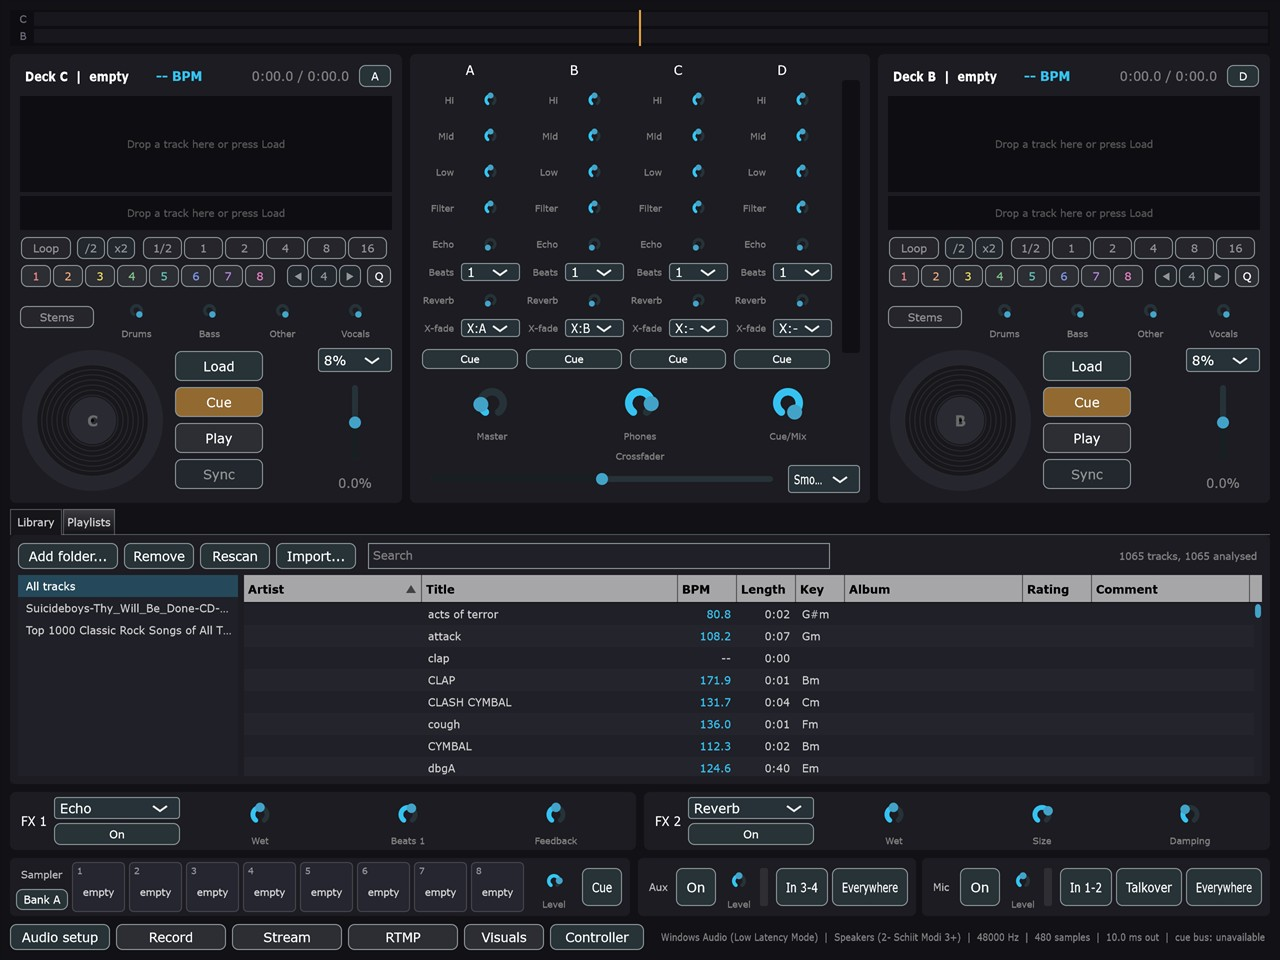
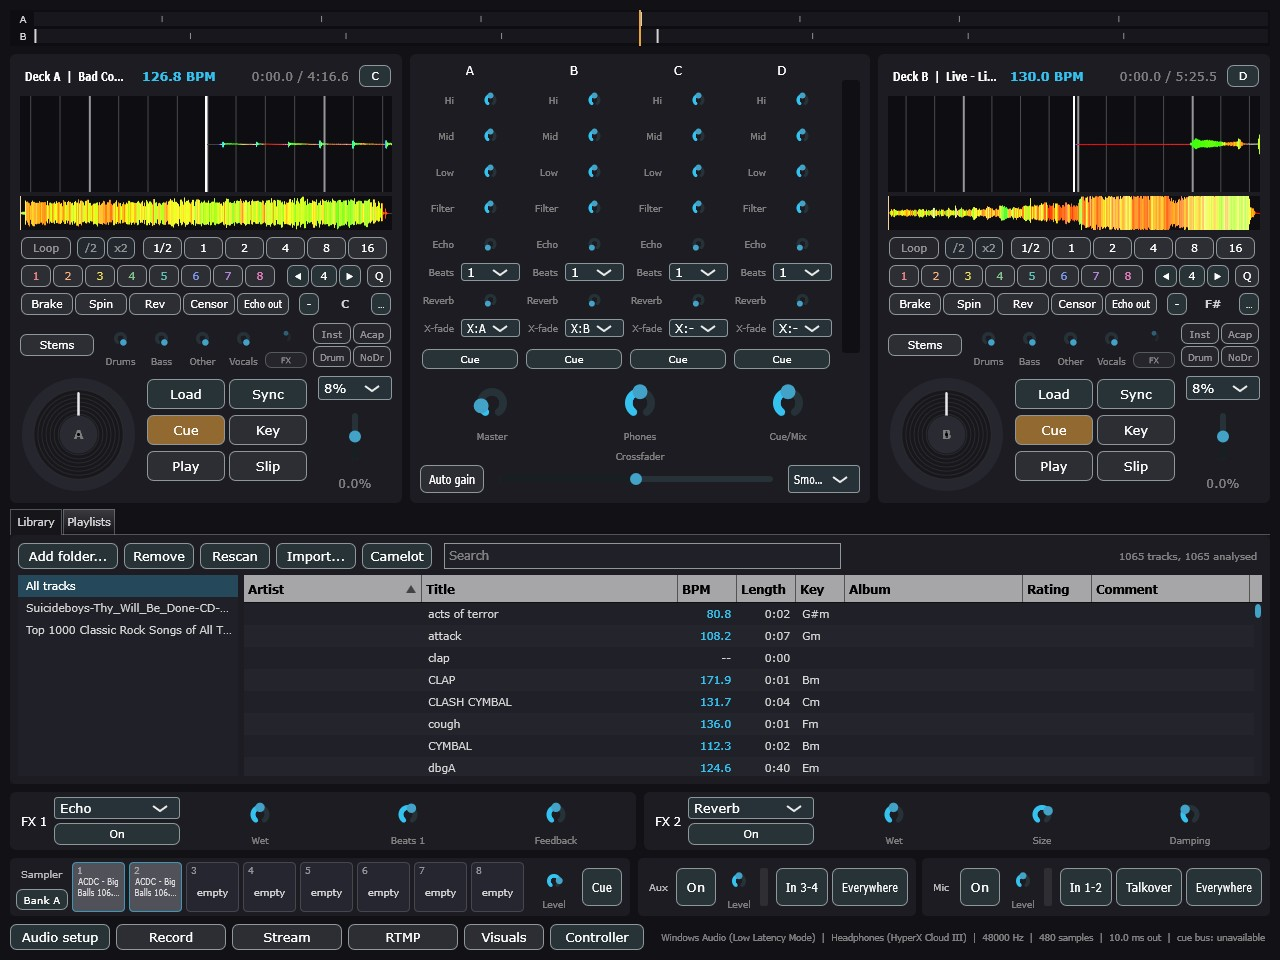
Bring the README, roadmap and screenshot up to date
A fresh screenshot with two tracks loaded, showing the stem pads, the
performance effects row, beat jump and quantize, auto gain, the master
effect units, sampler banks and the aux input. The README's status and
alt text name what has landed since, the keys table gains the sampler
pads and F11, and the DJ-202 notes no longer list key lock as unmapped.

The roadmap gains rows for beat jump, grid editing, full screen, sampler
banks, the aux input, stem pads and FX, MIDI learn and rekordbox import,
puts history and smart folders and hands-on checks of recent work at the
top of what to pick up next, and states the test count as measured on
Windows.

diff --git a/ROADMAP.md b/ROADMAP.md
@@ -1,8 +1,9 @@
 # OpenDJ roadmap
 
 Where the project is and what to pick up next. Anything ticked has tests or a verified manual
-check behind it, not just code that compiles. The suite is **651 tests** on Linux. Windows runs
-one fewer, a stderr test whose stand-in for ffmpeg is a shell script. Anything touching audio is
+check behind it, not just code that compiles. The suite is **618 test cases** in a Windows build
+(`opendj-tests --list-tests`); a few are platform specific, so the count differs a little on Linux
+and macOS. Anything touching audio is
 tested by measuring the output, not by checking that the code ran. Open work is also tracked as
 issues on [git.interdo.me](https://git.interdo.me/interdome/opendj/issues), and the numbers
 below refer to those.
@@ -39,6 +40,9 @@ that was listed after it except video.
 | --- | :---: | --- |
 | Four decks, A to D | ✅ | Four mixer strips, a crossfader assignment per channel, a swap button per side |
 | Loops and loop rolls | ✅ | `Deck::setLoopBeats` and friends |
+| Beat jump and quantize (#13) | ✅ | `Deck::beatJump`, `Deck::setQuantize`: jumps of 1 to 32 beats, cues and loops snapped to the grid |
+| Beat grid editing and tap tempo (#14) | ✅ | `src/ui/BeatGridEditor.*`, behind each deck's BPM readout. Edits are kept with the track and outrank later analysis |
+| Full screen (#41) | ✅ | F11, `MainComponent::keyPressed` |
 | Slip mode | ✅ | `Deck::setSlipEnabled`, sharing the roll's shadow playhead |
 | Key detection | ✅ | `src/analysis/KeyDetector.*`, in the browser's Key column |
 | Auto gain | ✅ | `src/analysis/Loudness.*`, `Deck::setAutoGainEnabled`. BS.1770 loudness, kept with the track |
@@ -48,12 +52,16 @@ that was listed after it except video.
 | Brake, backspin, reverse, censor | ✅ | `Deck::brake` and friends, on a row of their own under the hot cues |
 | Echo out | ✅ | `Mixer::setChannelEchoOut` |
 | VST3 effect plugins | ✅ | `src/core/PluginHost.*`: scanned in the background, loaded into a master slot with its own window and two knobs mapped to its parameters |
-| Sampler | ✅ | `src/core/Sampler.*`, eight pads |
+| Sampler | ✅ | `src/core/Sampler.*`, `src/ui/SamplerComponent.*`: four banks of eight pads, recording from a deck, and tempo sync (#21) |
 | Playlists | ✅ | `Library` playlist tables, `src/ui/PlaylistComponent.*`: built from the browser by selection or drag, reordered, renamed |
 | Automix | ✅ | `src/core/AutoMix.*`, `AutoMixMath.h`: plays a playlist on decks A and B, loading ahead, matching tempo and beat, sweeping the crossfader. Key lock goes on for a deck whose tempo it changes |
 | Smart crossfade | 🚧 | `src/core/MixPoints.*`: outro into intro, phrase on phrase, with a bass swap (#37). Checked against 20 real tracks' analyses, not yet listened to through a whole set. Vocals are kept apart where a separator is installed (#37): each track is separated while the one before plays, the mix moves to the nearest phrase, or the shorter fade, with fewest bars sung over each other, and the outgoing vocals make way for any that remain. Each phrase is read as intro, verse, chorus, breakdown or outro from its energy (and its vocals when separated). With no outro to mix from, the fade moves back rather than cut into a closing chorus. The incoming track is matched to the loudness of the outgoing one, within 6 dB |
 | Mic input | 🚧 | `src/core/MicInput.*`, `src/ui/MicComponent.*`, with talkover and a stream-only switch. Tested by measuring the output; not yet tried with a real mic |
+| Aux input (#46) | 🚧 | The same `MicInput` in stereo, on its own pair of inputs. Tested by measuring the output; not yet tried with a real source |
 | Stem separation | ✅ | `src/analysis/StemSeparator.*`, `StemDsp.*`, a knob per stem |
+| Stem pads, an effect on one stem, preparing ahead (#22) | 🚧 | `Deck::setStemFxEnabled` and friends, `src/ui/StemPrepareMenu.h`. Tested with hand-built stems and a stand-in separator; not yet run with a real separation model |
+| MIDI learn (#19) | 🚧 | `src/control/MidiLearn.*`, in the Controller panel. Tested with messages fed in where a device delivers them; not yet on a controller |
+| rekordbox import (#23) | ✅ | `src/library/RekordboxImport.*`: grids, hot cues, playlists, colours, ratings and comments |
 | Stems on the GPU (#36) | ✅ | `src/analysis/StemModel.*`: ONNX Runtime with CUDA on an NVIDIA card, OpenVINO on Intel graphics or the CPU. A five minute track takes 27 s on an RTX 4070 against 118 s on the CPU. Core ML on a Mac: a six minute track takes about 26 s on an M5 Pro, 2.5 times as fast as its CPU |
 | Record the master output | ✅ | `src/core/SetRecorder.*`: WAV, FLAC or MP3, with a tracklist |
 | Split output cue | ✅ | `src/core/OutputRouter.*`, headphones on a stereo interface |
@@ -67,6 +75,8 @@ that was listed after it except video.
 
 | Item | Notes |
 | --- | --- |
+| History and smart folders (#11) | The biggest gap left in the VirtualDJ comparison below. `tracks.last_played_at` exists but nothing writes it |
+| Hands-on checks of recent work | Stem pads and stem FX with a real separation model, MIDI learn on a real controller, the new effects and key tools heard in a set, auto gain across a real collection, the aux input with a real source. All are tested by measurement; none has been used in anger |
 | DJ-202 pad modes on the hardware, then the rest (#6) | Loop, roll and sampler modes are mapped from Mixxx's DJ-202 script and need pressing on the controller. Cue loop, pitch play, slicer, the parameter buttons and the TR-S sequencer are not mapped |
 | Arch | `scripts/build.sh` knows the Arch packages but has never been run there |
 | macOS hardware coverage | Apple Silicon builds, tests and opens with CoreAudio. Intel hardware and the DJ-202 on macOS still need checking; see Platforms below |

diff --git a/README.md b/README.md
@@ -9,17 +9,22 @@
 
 Free and open source DJ software, built in C++ with [JUCE](https://juce.com).
 
-![A strip across the top lining up both decks' beats, decks A and B below it, each with a track loaded and its waveforms coloured by frequency, loop lengths, stem knobs, turntable platter, tempo fader and a button to swap in deck C or D, a four channel mixer between them with every control named on every channel: high, mid and low EQ, filter, echo and its length in beats, reverb, crossfader assignment, a channel fader and cue, the track library underneath showing tempo and key, a row of eight sampler pads with their own level and cue, aux and mic strips with talkover on the mic, and a bottom bar with audio setup, recording, Icecast and RTMP streaming, controller setup, and the audio device running at 10 ms](images/screenshot.jpg)
+![A strip across the top lining up both decks' beats, decks A and B below it, each with a track loaded, its waveforms coloured by frequency and its tempo and clock above them, loop lengths, eight hot cue pads with beat jump arrows and a quantize button, a row of Brake, Spin, Rev, Censor and Echo out with the key and its shift buttons, four stem knobs beside Inst, Acap, Drum and NoDr pads and an FX button, a turntable platter, the tempo fader and a button to swap in deck C or D, a four channel mixer between them with every control named on every channel, master, headphone and cue/mix knobs, Auto gain and the crossfader, the track library underneath with Import and Camelot in its toolbar, two master effect units, eight sampler pads with a bank button, level and cue, aux and mic strips with talkover on the mic, and a bottom bar with audio setup, recording, Icecast and RTMP streaming, visuals, controller setup, and the audio device running at 10 ms](images/screenshot.jpg)
 
 The goal is an application a VirtualDJ user can sit down at and already know how to use:
 the same deck layout, the same workflow, the same muscle memory. The artwork, the naming
 and the code are entirely original and entirely open.
 
 **Status: early development, but it mixes.** Four decks with turntable platters you can scratch,
-waveforms, beat grids, automatic BPM and key detection, sync, key lock, beat-locked loops and
-rolls, key shift and key match, stem separation with a knob per stem, stem pads and an effect on one stem, a mixer with a filter, a beat-synced echo and a reverb per channel, two master effect units, brake, backspin, reverse and censor, hot cues, an eight slot sampler, a
-searchable track library, set recording to WAV, FLAC or MP3 with a tracklist, broadcasting to Icecast, and Roland
-DJ-202 support including its own audio interface and its platters.
+waveforms, beat grids you can edit or tap in, automatic BPM and key detection, sync, key lock, beat jump
+and quantize, beat-locked loops and rolls, key shift, key match and Camelot keys, auto gain by measured
+loudness, stem separation with a knob per stem, stem pads and an effect on one stem, a mixer with a
+filter, a beat-synced echo and a reverb per channel, two master effect units with VST3 support, brake,
+backspin, reverse and censor, named hot cues, a sampler with four banks that can record from a deck,
+a mic and an aux input, playlists and automix with smart crossfades, rekordbox import, a searchable
+track library, set recording to WAV, FLAC or MP3 with a tracklist, broadcasting to Icecast and RTMP,
+MilkDrop visuals, MIDI learn, and Roland DJ-202 support including its own audio interface and its
+platters.
 
 ## Design goals
 
@@ -32,8 +37,9 @@ DJ-202 support including its own audio interface and its platters.
 ## Roadmap
 
 See [ROADMAP.md](ROADMAP.md) for what is done, what is left, and where to start. The short
-version: everything in the first milestone now works, along with effects, loops, a sampler and
-four decks.
+version: everything in the first milestone works, and most of what a VirtualDJ user would reach
+for in a set is there too. What is left is mostly checking recent work on real hardware and in real
+sets, a history and smart folders, and video.
 
 ## Using it
 
@@ -78,8 +84,10 @@ key.
 
 | Key | Action |
 | --- | --- |
-| Q / W | Deck A cue / play |
-| O / P | Deck B cue / play |
+| Q / W | Left deck cue / play |
+| O / P | Right deck cue / play |
+| 1 to 8 | Fire the sampler pads |
+| F11 | Full screen |
 
 Cue follows the behaviour DJs expect. While the deck is stopped, pressing cue sets the cue
 point and previews from it, and releasing returns and stops. While it is playing, pressing
@@ -532,7 +540,7 @@ top of a platter halts playback and drives it from your hand at 33 1/3 rpm; movi
 ring instead nudges the pitch and decays back to the fader.
 
 Not yet mapped: the deck-toggle button and decks 3 and 4, the effects section, the TR-S
-sequencer, slip and vinyl mode, key lock, and the pad modes past hot cue.
+sequencer, slip and vinyl mode, and the pad modes past hot cue.
 
 **One thing still needs checking against real hardware:** the tempo faders are mapped inverted,
 on the assumption the DJ-202 sends its highest value at the bottom of the throw. If yours reads
